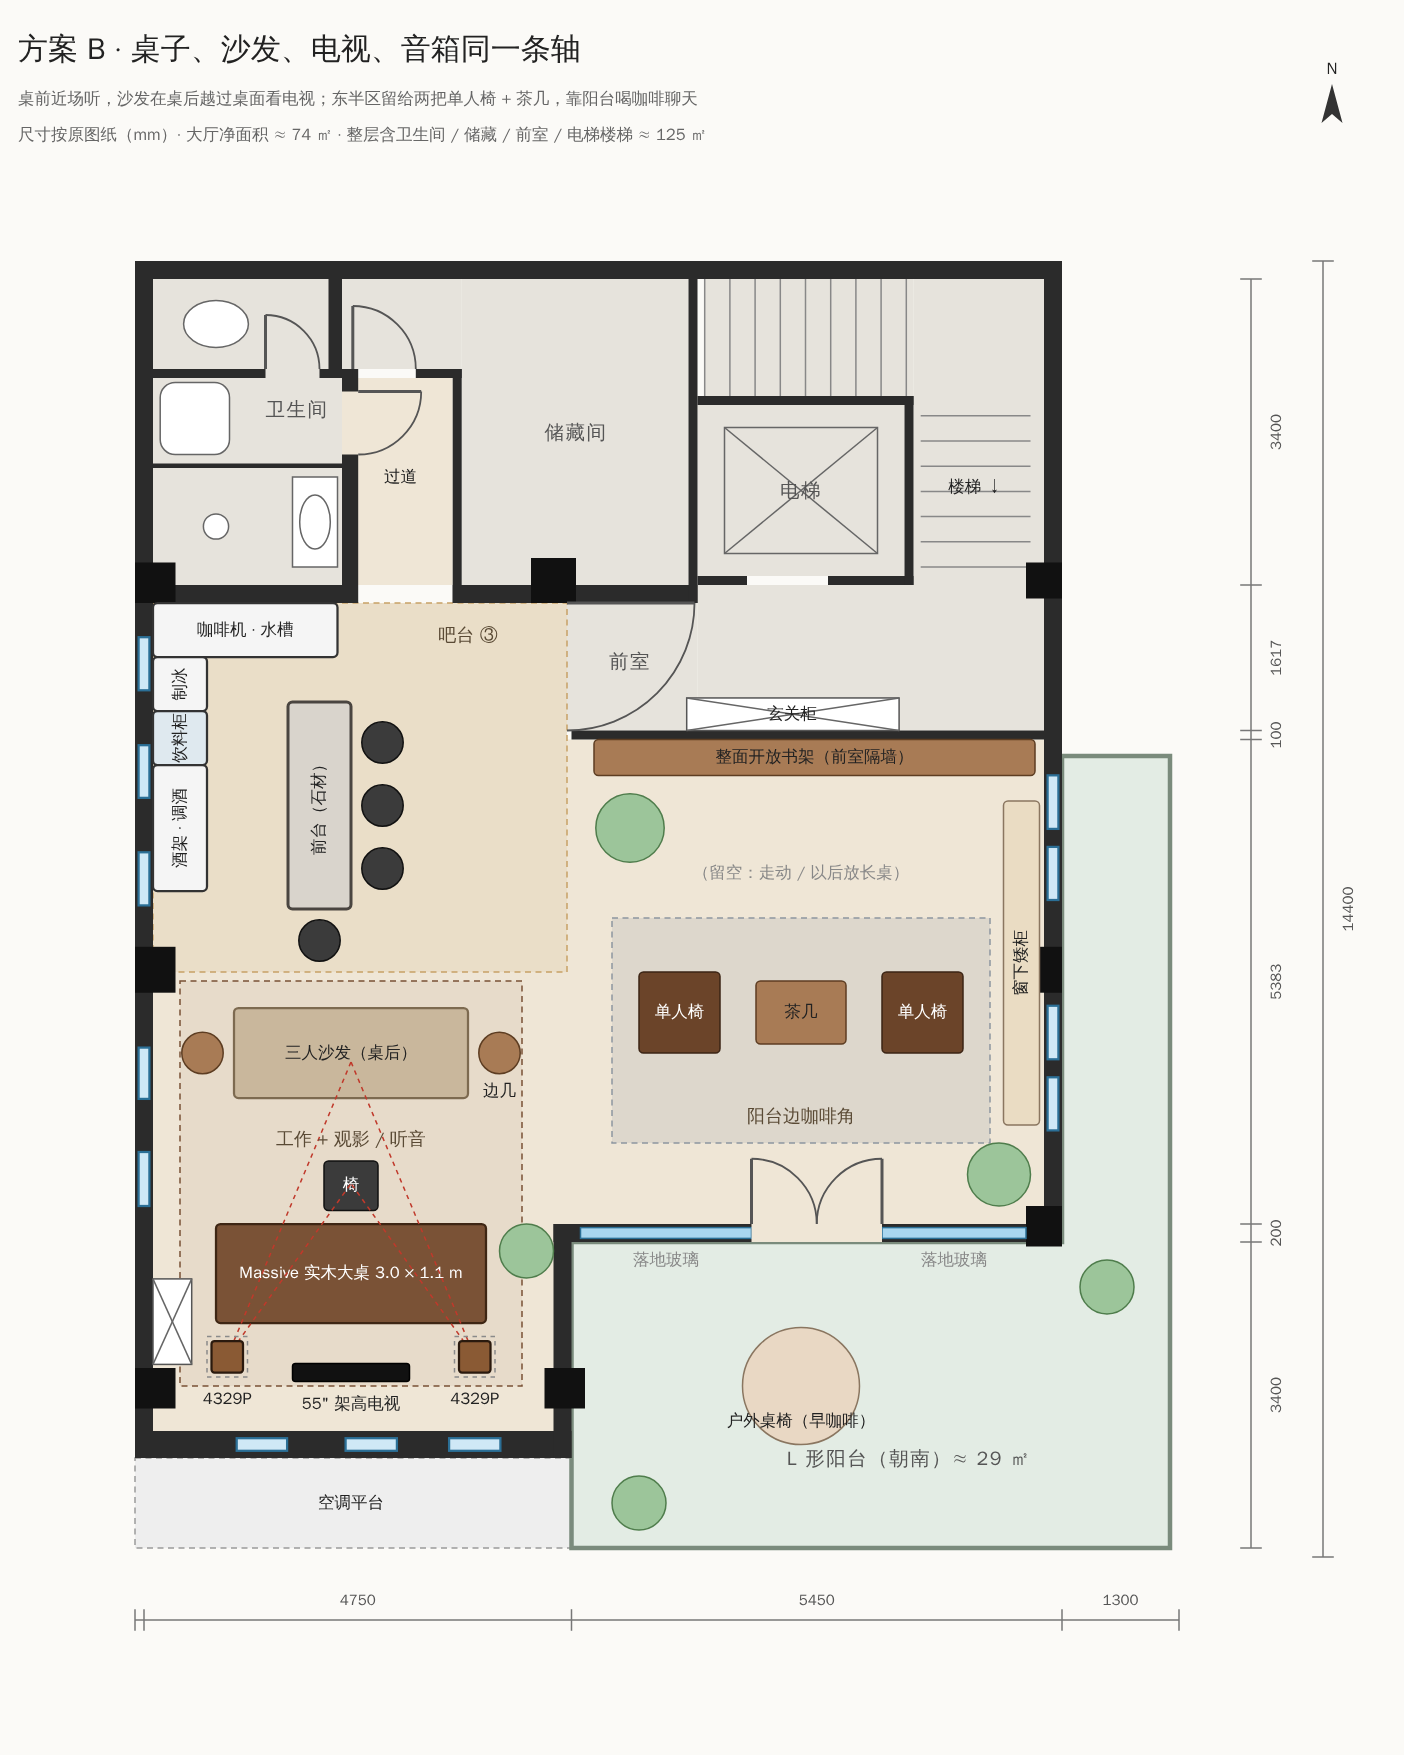
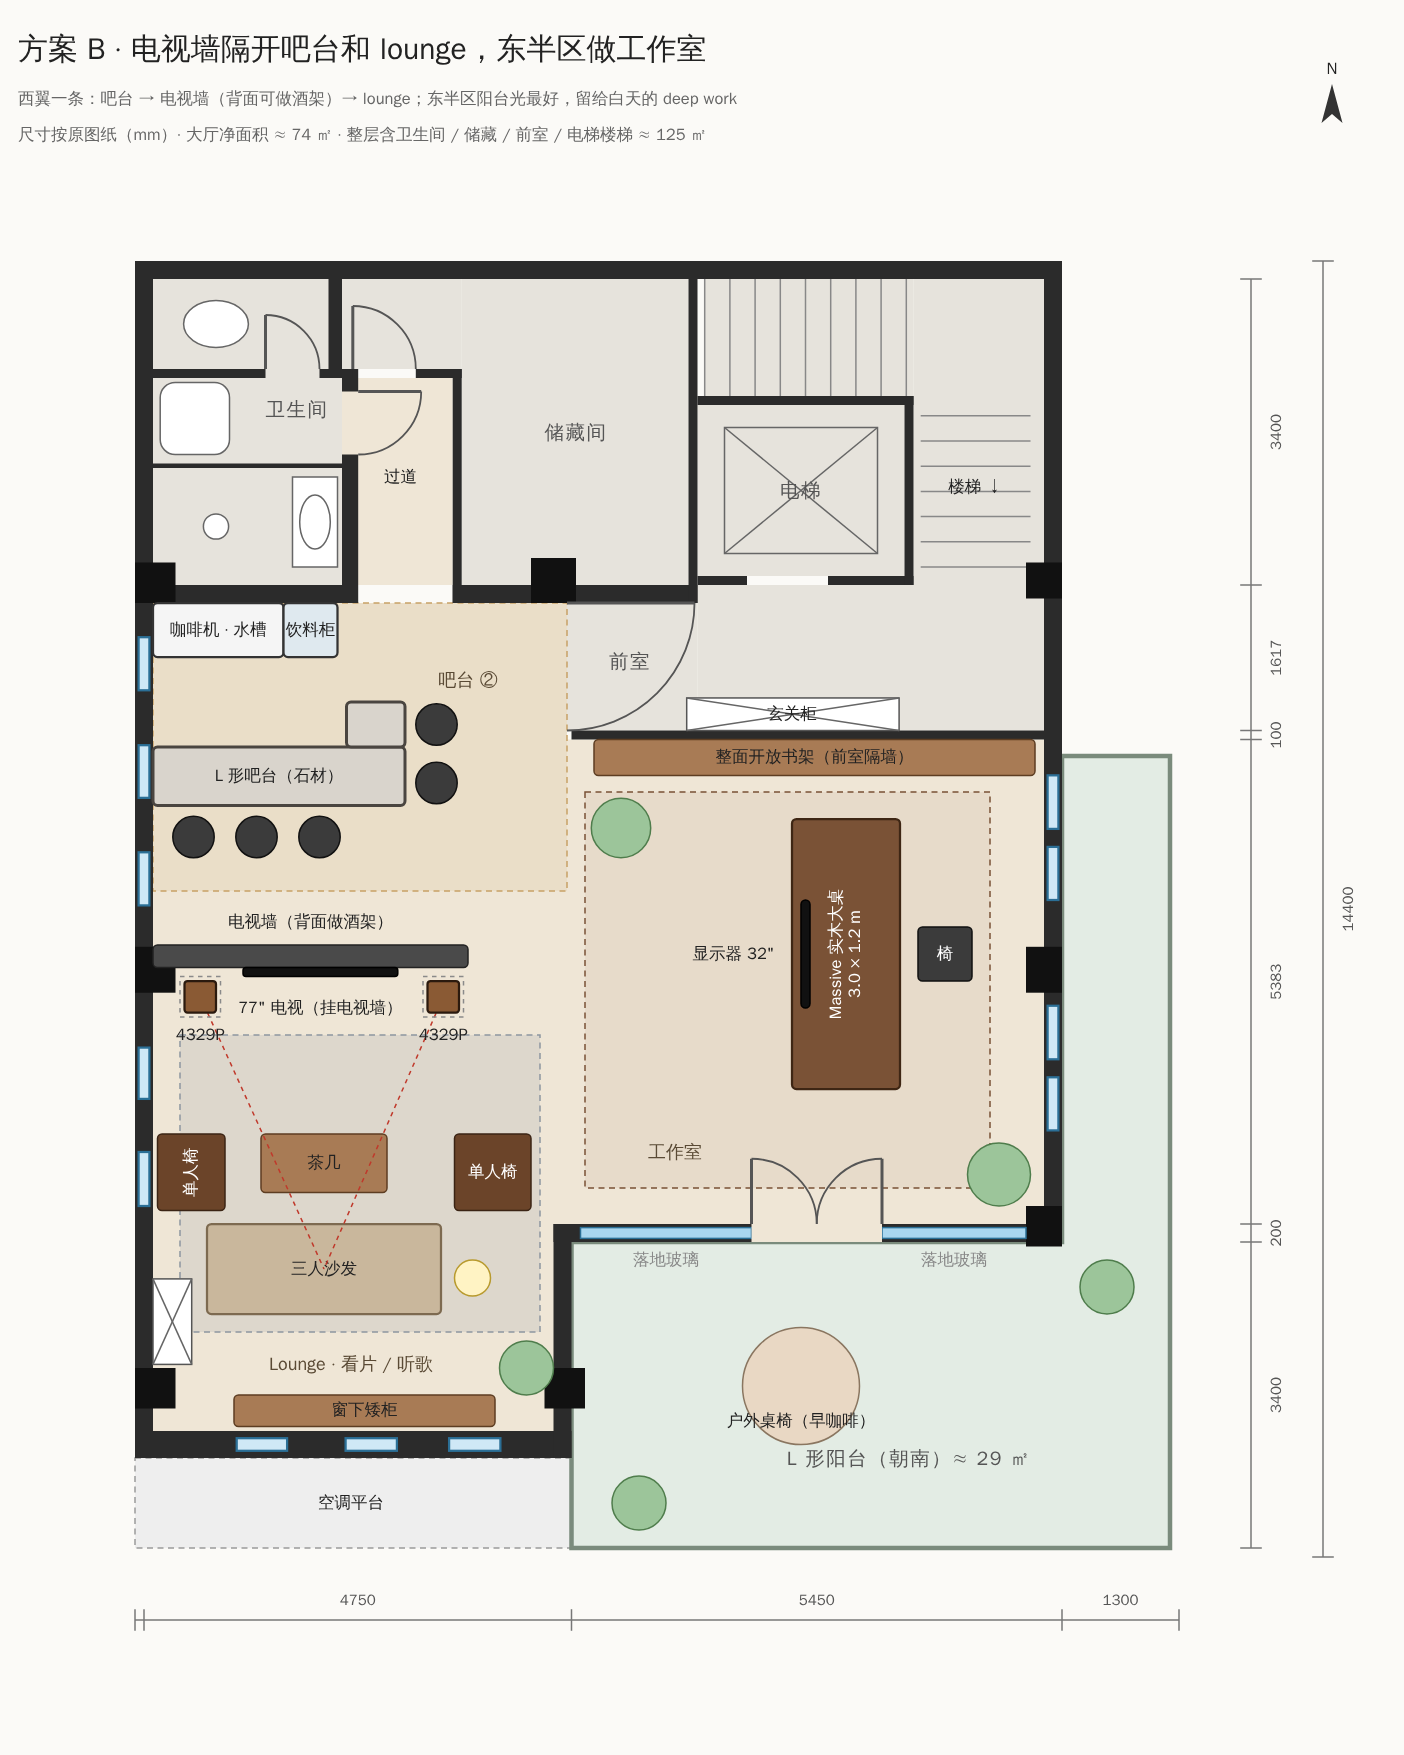
Floor plan: separate TV from desk; big TV + 4329P in the lounge
The 55" TV moves to the chairman's office, so the desk gets a monitor
and the 3F lounge gets a large TV paired with the JBL 4329Ps.
Plan A: east part becomes the living room (85" on the lobby wall),
deep-work desk at the quiet SW end behind a low double-sided shelf.
Plan B: new TV wall splits bar and lounge in the west wing; east part
is the studio.

Claude-Session: https://claude.ai/code/session_01UszicjF1djv9j8mqGC9SHb

diff --git a/loft-floor-plan/floor_plan.py b/loft-floor-plan/floor_plan.py
@@ -180,68 +180,82 @@ BALCONY_SET = [
 
 PLAN_A = dict(
     file="plan_a",
-    title="方案 A · 西翼一条“吧台 → 听音 lounge”，东侧独立工作室",
-    subtitle="两只 4329P 放在 lounge 南端对着沙发，晚上两个人在这里喝酒听歌；东半区是安静的 deep work 工作室",
+    title="方案 A · 东半区做客厅（大电视 + 4329P），西翼南端安静的 deep work",
+    subtitle="电视和音箱靠前室隔墙那面整墙，沙发背对阳台；吧台在进门处；书桌在最里面，用双面矮书架和吧台隔开",
     pencil="applied",
     zones=[
         dict(r=(200, 3800, 4800, 7000), label="", cls="z-bar"),
-        dict(r=(500, 7900, 4300, 11300), label="", cls="z-rug"),
-        dict(r=(5000, 5900, 9500, 10300), label="", cls="z-work"),
+        dict(r=(5300, 7200, 9600, 9900), label="", cls="z-rug"),
+        dict(r=(500, 9800, 4500, 12500), label="", cls="z-work"),
     ],
     furniture=BAR_L_COUNTER + [
-        dict(r=(1100, 8150, 3700, 9150), label="三人沙发", cls="sofa"),
-        dict(r=(1700, 9600, 3100, 10300), label="茶几", cls="wood"),
-        dict(r=(250, 9550, 1100, 10400), label="单人椅", cls="leather"),
-        dict(r=(3700, 9550, 4550, 10400), label="单人椅", cls="leather"),
-        dict(c=(650, 8500, 200), label="", cls="lamp"),
-        dict(c=(4150, 8500, 200), label="", cls="lamp"),
-        dict(r=(1500, 12550, 3300, 12950), label="窗下矮柜", cls="wood"),
-        dict(c=(4350, 11300, 300), label="", cls="plant"),
-    ] + DESK_STUDIO_EAST + BALCONY_SET,
-    av=dict(tv=(6850, 7050, 7050, 8350), tv_label=(6050, 7700),
-            speakers=[(800, 11850, 1150, 12200), (3650, 11850, 4000, 12200)],
-            speaker_labels=[(975, 12450), (3825, 12450)], listeners=[(2400, 8800)]),
+        # 客厅：85" 电视壁挂在前室隔墙上，4329P 落地架放两侧
+        dict(r=(6250, 5350, 8650, 5800), label="", cls="box"),
+        dict(r=(6150, 8650, 8750, 9600), label="三人沙发", cls="sofa"),
+        dict(r=(6750, 7850, 8150, 8450), label="茶几", cls="wood"),
+        dict(r=(5100, 7500, 5950, 8350), label="单人椅", cls="leather"),
+        dict(r=(8950, 7500, 9800, 8350), label="单人椅", cls="leather"),
+        dict(c=(5750, 9200, 200), label="", cls="lamp"),
+        dict(c=(9600, 10150, 350), label="", cls="plant"),
+        # 工作区
+        dict(r=(500, 9150, 3300, 9550), label="双面矮书架 1.2 m 高", cls="wood"),
+        dict(r=(900, 10200, 3900, 11400), label="", cls="desk"),
+        dict(r=(1700, 10300, 3100, 10400), label="", cls="tv"),
+        dict(r=(2100, 11550, 2700, 12100), label="椅", cls="dark"),
+        dict(r=(1100, 12600, 4000, 12950), label="窗下矮柜", cls="wood"),
+        dict(c=(4350, 12300, 300), label="", cls="plant"),
+        dict(c=(4300, 9300, 330), label="", cls="plant"),
+    ] + BALCONY_SET,
+    av=dict(tv=(6500, 5420, 8400, 5520), tv_label=(7450, 6150), tv_text='85" 电视（壁挂）',
+            speakers=[(5450, 5800, 5800, 6150), (9100, 5800, 9450, 6150)],
+            speaker_labels=[(5625, 6400), (9275, 6400)], listeners=[(7450, 9100)]),
     notes=[
         (3700, 4650, "吧台 ②", "zone-lbl"),
-        (2400, 11000, "Lounge · 听音", "zone-lbl"),
-        (6000, 9900, "工作室", "zone-lbl"),
+        (7450, 6950, "客厅 · 看片 / 听歌", "zone-lbl"),
+        (2400, 9900, "Deep work", "zone-lbl"),
+        (2400, 10620, "显示器 32\"", "lbl lbl-inv"),
+        (2400, 11050, "Massive 实木大桌 3.0 × 1.2 m", "lbl lbl-inv"),
+        (2400, 8200, "（留白 / 大绿植）", "note-c"),
     ],
     labels={"hall": ""},
 )
 
 PLAN_B = dict(
     file="plan_b",
-    title="方案 B · 桌子、沙发、电视、音箱同一条轴",
-    subtitle="桌前近场听，沙发在桌后越过桌面看电视；东半区留给两把单人椅 + 茶几，靠阳台喝咖啡聊天",
+    title="方案 B · 电视墙隔开吧台和 lounge，东半区做工作室",
+    subtitle="西翼一条：吧台 → 电视墙（背面可做酒架）→ lounge；东半区阳台光最好，留给白天的 deep work",
     pencil="applied",
     zones=[
-        dict(r=(200, 3800, 4800, 7900), label="", cls="z-bar"),
-        dict(r=(500, 8000, 4300, 12500), label="", cls="z-work"),
-        dict(r=(5300, 7300, 9500, 9800), label="", cls="z-rug"),
+        dict(r=(200, 3800, 4800, 7000), label="", cls="z-bar"),
+        dict(r=(500, 8600, 4500, 11900), label="", cls="z-rug"),
+        dict(r=(5000, 5900, 9500, 10300), label="", cls="z-work"),
     ],
-    furniture=BAR_PARALLEL + [
-        dict(r=(1100, 8300, 3700, 9300), label="三人沙发（桌后）", cls="sofa"),
-        dict(c=(750, 8800, 230), label="", cls="wood"),
-        dict(c=(4050, 8800, 230), label="边几", cls="wood"),
-        dict(r=(900, 10700, 3900, 11800), label="Massive 实木大桌 3.0 × 1.1 m", cls="desk"),
-        dict(r=(2100, 10000, 2700, 10550), label="椅", cls="dark"),
+    furniture=BAR_L_COUNTER + [
+        dict(r=(200, 7600, 3700, 7850), label="", cls="wall-new"),
+        dict(r=(800, 10700, 3400, 11700), label="三人沙发", cls="sofa"),
+        dict(r=(1400, 9700, 2800, 10350), label="茶几", cls="wood"),
+        dict(r=(250, 9700, 1000, 10550), label="单人椅", cls="leather", rot=True),
+        dict(r=(3550, 9700, 4400, 10550), label="单人椅", cls="leather"),
+        dict(c=(3750, 11300, 200), label="", cls="lamp"),
+        dict(r=(1100, 12600, 4000, 12950), label="窗下矮柜", cls="wood"),
+        dict(c=(4350, 12300, 300), label="", cls="plant"),
+        # 工作室
         dict(r=(5100, 5317, 10000, 5717), label="整面开放书架（前室隔墙）", cls="wood"),
-        dict(r=(5600, 7900, 6500, 8800), label="单人椅", cls="leather"),
-        dict(r=(8300, 7900, 9200, 8800), label="单人椅", cls="leather"),
-        dict(r=(6900, 8000, 7900, 8700), label="茶几", cls="wood"),
-        dict(r=(9650, 6000, 10050, 9600), label="窗下矮柜", cls="box", rot=True),
+        dict(r=(7300, 6200, 8500, 9200), label="Massive 实木大桌\n3.0 × 1.2 m", cls="desk", rot=True),
+        dict(r=(7400, 7100, 7500, 8300), label="", cls="tv"),
+        dict(r=(8700, 7400, 9300, 8000), label="椅", cls="dark"),
         dict(c=(9600, 10150, 350), label="", cls="plant"),
-        dict(c=(5500, 6300, 380), label="", cls="plant"),
-        dict(c=(4350, 11000, 300), label="", cls="plant"),
+        dict(c=(5400, 6300, 330), label="", cls="plant"),
     ] + BALCONY_SET,
-    av=dict(tv=(1750, 12250, 3050, 12450), tv_label=(2400, 12700), tv_text='55" 架高电视', speaker_text="4329P",
-            speakers=[(850, 12000, 1200, 12350), (3600, 12000, 3950, 12350)],
-            speaker_labels=[(1025, 12650), (3775, 12650)], listeners=[(2400, 10250), (2400, 8900)]),
+    av=dict(tv=(1200, 7850, 2920, 7950), tv_label=(2060, 8300), tv_text='77" 电视（挂电视墙）',
+            speakers=[(550, 8000, 900, 8350), (3250, 8000, 3600, 8350)], speaker_text="4329P",
+            speaker_labels=[(725, 8600), (3425, 8600)], listeners=[(2100, 11200)]),
     notes=[
-        (3700, 4150, "吧台 ③", "zone-lbl"),
-        (2400, 9750, "工作 + 观影 / 听音", "zone-lbl"),
-        (7400, 9500, "阳台边咖啡角", "zone-lbl"),
-        (7400, 6800, "（留空：走动 / 以后放长桌）", "note-c"),
+        (3700, 4650, "吧台 ②", "zone-lbl"),
+        (1950, 7350, "电视墙（背面做酒架）", "lbl"),
+        (2400, 12250, "Lounge · 看片 / 听歌", "zone-lbl"),
+        (6000, 9900, "工作室", "zone-lbl"),
+        (6650, 7700, "显示器 32\"", "lbl"),
     ],
     labels={"hall": ""},
 )
@@ -286,6 +300,7 @@ STYLE = """
   .fridge{fill:#dfe9ef;stroke:#333;stroke-width:1.5}
   .counter{fill:#d9d4cc;stroke:#4a4540;stroke-width:2}
   .stool{fill:#3b3b3b;stroke:#111;stroke-width:1}
+  .wall-new{fill:#4a4a4a;stroke:#222;stroke-width:1}
   .cabinet{fill:#fff;stroke:#555;stroke-width:1}
   .ghost{fill:none;stroke:#8a8a8a;stroke-width:1;stroke-dasharray:3 3}
   .speaker{fill:#8a5a34;stroke:#2b1a0e;stroke-width:1.5}

diff --git a/loft-floor-plan/README.md b/loft-floor-plan/README.md
@@ -11,8 +11,8 @@ python3 floor_plan.py     # 生成 base.svg / plan_a.svg / plan_b.svg / bar_opti
 | --- | --- |
 | `floor_plan.py` | 建筑数据用图纸坐标（`DRAWING_*`），家具用转正后的平面坐标，渲染成 SVG |
 | `base.svg` / `.png` | 原图纸 + 铅笔修改（红色 = 划掉，橙色 = 新增） |
-| `plan_a.svg` / `.png` | 方案 A：西翼“吧台 → 听音 lounge”，东半区是独立工作室 |
-| `plan_b.svg` / `.png` | 方案 B：桌子、沙发、电视、音箱在同一条轴上，东半区做阳台边的咖啡角 |
+| `plan_a.svg` / `.png` | 方案 A：东半区做客厅（85" 电视 + 4329P 在前室隔墙那面），西翼南端做 deep work |
+| `plan_b.svg` / `.png` | 方案 B：西翼新加一道电视墙隔开吧台和 lounge，东半区做工作室 |
 | `bar_options.svg` / `.png` | 吧台三种做法：① 靠墙 L 形 + 高脚桌，② 后吧台 + L 形前台，③ 平行式 |
 
 ## 定位
@@ -21,7 +21,8 @@ python3 floor_plan.py     # 生成 base.svg / plan_a.svg / plan_b.svg / bar_opti
 - 办公室在 20 m 外，健身房、接待和会议都在那边。董事长办公室是和爸爸共用的
 - 所以 3 楼是唯一完全私人的空间：白天一个人 deep work（Claude Code），晚上和女朋友日咖夜酒、听音乐，
   偶尔约朋友。公司的人不会上来
-- 音乐从电脑 / 手机推流到一对 JBL 4329P（有源）。55" 架高电视平时当显示器
+- 音乐从电脑 / 手机推流到一对 JBL 4329P（有源）。4329P 跟客厅的大电视放在一起；
+  原来的 55" 电视搬去董事长办公室，书桌换一台 32" 高分屏显示器
 - 储藏间保持原样，佛龛搬走
 
 ## 空间（上北下南）
